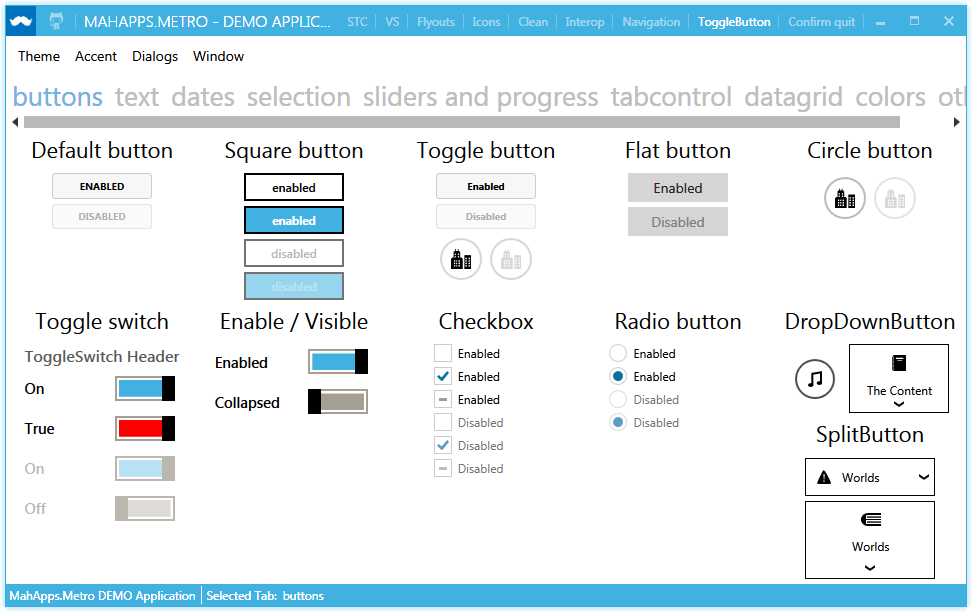
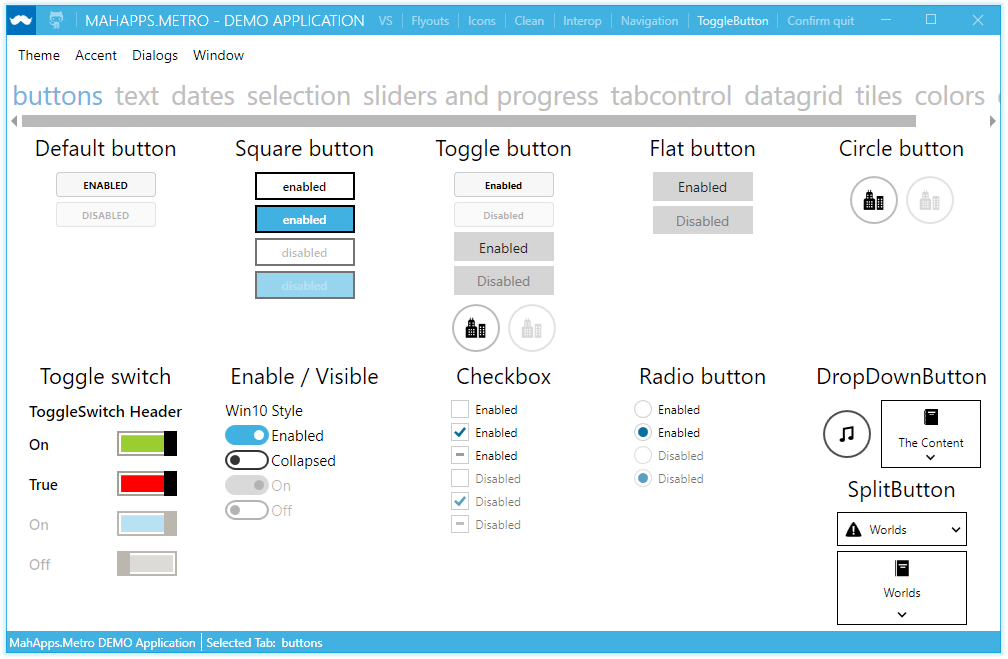
Update screenshots

Changed region(s): [[0.0, 0.0, 1.0, 0.9935], [0.0, 0.4967, 0.1852, 0.9003], [0.6173, 0.4967, 0.7716, 0.7451]]

diff --git a/readme.md b/readme.md
@@ -25,13 +25,18 @@ You can also help keep the documentation up to date by submitting a pull request
 
 ![maindemowindow01](./docs/main_demo_window.png)
 
-![iconpacks](https://cloud.githubusercontent.com/assets/658431/16098473/6a88963a-3353-11e6-8b97-71c07700c17c.gif)
+![maindemowindow02](./docs/main_demo_text.png)
 
-![maindemowindow03](./docs/main_demo_window.gif)
+![maindemowindow03](./docs/main_demo_flyout1.png)
+
+![maindemowindow03](./docs/main_demo_flyout2.png)
+
+![maindemowindow04](./docs/main_demo_window.gif)
 
 ## Release Notes
 
-- current [v1.2.4](./docs/release-notes/1.2.4.md)
+- [v1.3.0](./docs/release-notes/1.3.0.md)
+- [v1.2.4](./docs/release-notes/1.2.4.md)
 - all [other](./docs/release-notes/)
 
 ## Icons
@@ -59,6 +64,8 @@ MahApps.Metro can use the [MahApps.Metro.IconPacks](https://github.com/MahApps/M
 ![2016-07-26_02h30_11](https://cloud.githubusercontent.com/assets/658431/17122173/7573d3ca-52d9-11e6-9a2e-8ecadad254e4.png)
 
 It's still possible to use the old Xaml icon resources available [here](https://github.com/MahApps/MahApps.Metro.Resources) (but you should use the new one for easier usage).
+
+![iconbrowserfinal](https://cloud.githubusercontent.com/assets/658431/18764958/ec20dd3e-8113-11e6-8793-b012eaec2302.gif)
 
 ## Contributing to this project
 
